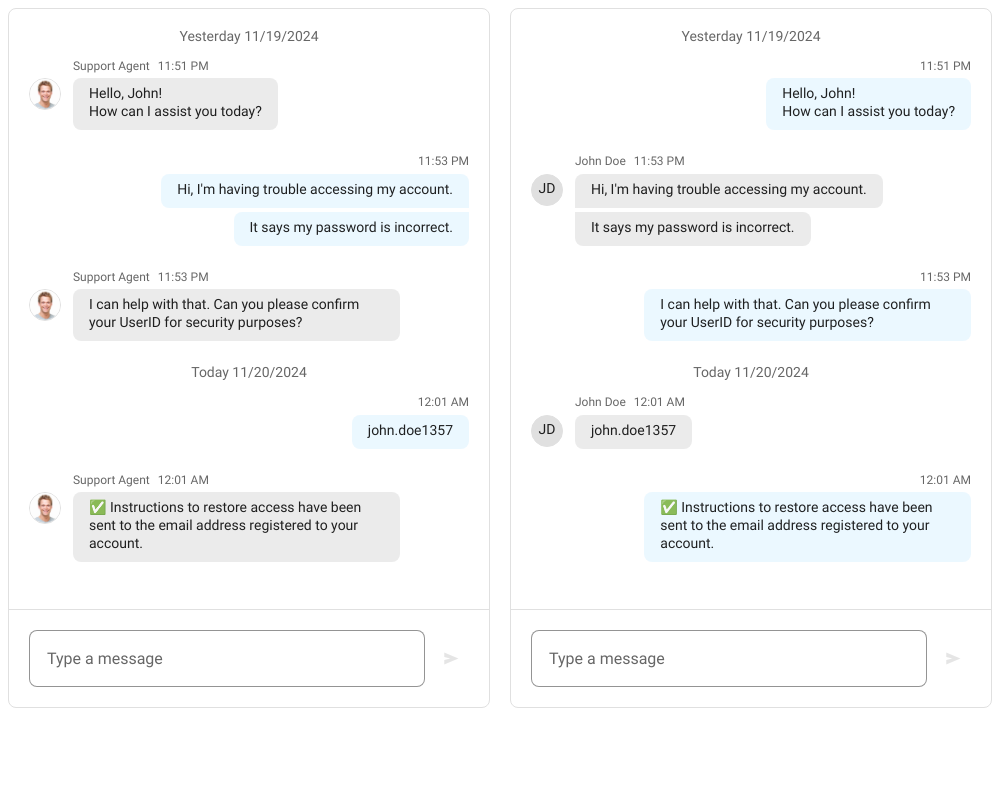
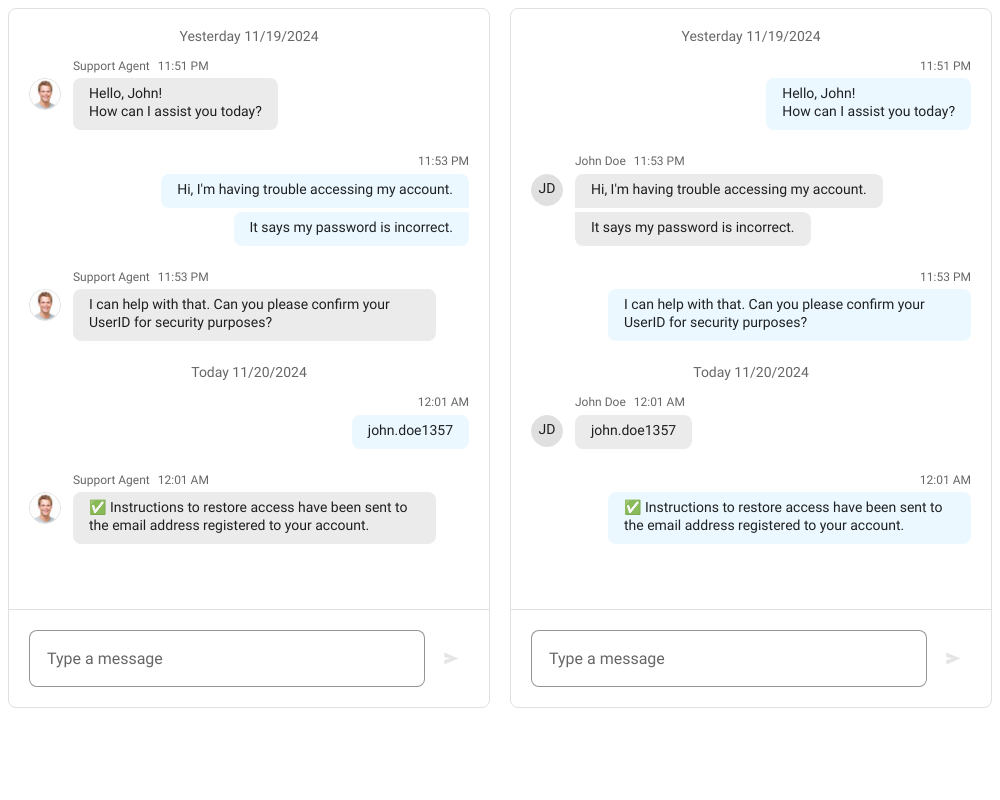
Chat: update bubble max-width (#28428)

diff --git a/packages/devextreme-scss/scss/widgets/fluent/chat/_sizes.scss b/packages/devextreme-scss/scss/widgets/fluent/chat/_sizes.scss
@@ -18,7 +18,7 @@ $chat-messagegroup-gap: 4px !default;
 $chat-messagegroup-padding: null !default;
 $chat-information-gap: 8px !default;
 $chat-avatar-size: 32px !default;
-$chat-messagegroup-alignment-start-template: auto 1fr !default;
+$chat-messagegroup-alignment-start-template: auto 82.5% 1fr !default;
 $chat-messagegroup-alignment-start-gap: 12px !default;
 $chat-header-padding: 20px !default;
 $chat-information-font-size: 12px !default;

diff --git a/packages/devextreme-scss/scss/widgets/generic/chat/_sizes.scss b/packages/devextreme-scss/scss/widgets/generic/chat/_sizes.scss
@@ -19,7 +19,7 @@ $chat-messagegroup-gap: 4px !default;
 $chat-messagegroup-padding: null !default;
 $chat-information-gap: 8px !default;
 $chat-avatar-size: 32px !default;
-$chat-messagegroup-alignment-start-template: auto 1fr !default;
+$chat-messagegroup-alignment-start-template: auto 82.5% 1fr !default;
 $chat-messagegroup-alignment-start-gap: 12px !default;
 $chat-header-padding: 20px !default;
 $chat-information-font-size: 12px !default;

diff --git a/packages/devextreme-scss/scss/widgets/material/chat/_sizes.scss b/packages/devextreme-scss/scss/widgets/material/chat/_sizes.scss
@@ -17,7 +17,7 @@ $chat-messagegroup-gap: 4px !default;
 $chat-messagegroup-padding: null !default;
 $chat-information-gap: 8px !default;
 $chat-avatar-size: 32px !default;
-$chat-messagegroup-alignment-start-template: auto 1fr !default;
+$chat-messagegroup-alignment-start-template: auto 82.5% 1fr !default;
 $chat-messagegroup-alignment-start-gap: 12px !default;
 $chat-header-padding: 20px !default;
 $chat-information-font-size: 12px !default;

diff --git a/apps/demos/Demos/Chat/Overview/Vue/App.vue b/apps/demos/Demos/Chat/Overview/Vue/App.vue
@@ -30,14 +30,6 @@
     .dx-avatar {
         border: 1px solid var(--dx-color-border);
     }
-
-    .dx-chat-messagegroup.dx-chat-messagegroup-alignment-end {
-        padding-left: 44px;
-    }
-
-    .dx-chat-messagegroup .dx-chat-messagegroup-content {
-        max-width: 82.5%;
-    }
 </style>
 
 <script setup lang="ts">

diff --git a/packages/devextreme-scss/scss/widgets/base/chat/layout/chat-messagebubble/_index.scss b/packages/devextreme-scss/scss/widgets/base/chat/layout/chat-messagebubble/_index.scss
@@ -1,7 +1,6 @@
 .dx-chat-messagegroup-content {
   display: flex;
   flex-direction: column;
-  max-width: 70%;
 }
 
 .dx-chat-messagebubble {
@@ -25,6 +24,7 @@
 .dx-chat-messagegroup-alignment-end {
   .dx-chat-messagegroup-content {
     align-items: flex-end;
+    max-width: 82.5%;
   }
 
   .dx-chat-messagebubble {

diff --git a/apps/demos/Demos/Chat/Overview/Angular/app/app.component.css b/apps/demos/Demos/Chat/Overview/Angular/app/app.component.css
@@ -10,11 +10,3 @@
 ::ng-deep .dx-avatar {
   border: 1px solid var(--dx-color-border);
 }
-
-::ng-deep .dx-chat-messagegroup.dx-chat-messagegroup-alignment-end {
-  padding-left: 44px;
-}
-
-::ng-deep .dx-chat-messagegroup .dx-chat-messagegroup-content {
-  max-width: 82.5%;
-}

diff --git a/apps/demos/Demos/Chat/Overview/React/styles.css b/apps/demos/Demos/Chat/Overview/React/styles.css
@@ -10,11 +10,3 @@
 .dx-avatar {
   border: 1px solid var(--dx-color-border);
 }
-
-.dx-chat-messagegroup.dx-chat-messagegroup-alignment-end {
-  padding-left: 44px;
-}
-
-.dx-chat-messagegroup .dx-chat-messagegroup-content {
-  max-width: 82.5%;
-}

diff --git a/apps/demos/Demos/Chat/Overview/ReactJs/styles.css b/apps/demos/Demos/Chat/Overview/ReactJs/styles.css
@@ -10,11 +10,3 @@
 .dx-avatar {
   border: 1px solid var(--dx-color-border);
 }
-
-.dx-chat-messagegroup.dx-chat-messagegroup-alignment-end {
-  padding-left: 44px;
-}
-
-.dx-chat-messagegroup .dx-chat-messagegroup-content {
-  max-width: 82.5%;
-}

diff --git a/apps/demos/Demos/Chat/Overview/jQuery/styles.css b/apps/demos/Demos/Chat/Overview/jQuery/styles.css
@@ -10,11 +10,3 @@
 .dx-avatar {
   border: 1px solid var(--dx-color-border);
 }
-
-.dx-chat-messagegroup.dx-chat-messagegroup-alignment-end {
-  padding-left: 44px;
-}
-
-.dx-chat-messagegroup .dx-chat-messagegroup-content {
-  max-width: 82.5%;
-}

diff --git a/packages/devextreme-scss/scss/widgets/base/chat/layout/chat-messagebubble/_mixins.scss b/packages/devextreme-scss/scss/widgets/base/chat/layout/chat-messagebubble/_mixins.scss
@@ -5,7 +5,7 @@
   $background-color-secondary,
   $color-primary,
   $background-color-primary,
-  $bubble-container-gap
+  $bubble-container-gap,
 ) {
   .dx-chat-messagegroup-content {
     row-gap: $bubble-container-gap;

diff --git a/packages/devextreme-scss/scss/widgets/base/chat/layout/chat-messagegroup/_index.scss b/packages/devextreme-scss/scss/widgets/base/chat/layout/chat-messagegroup/_index.scss
@@ -24,7 +24,7 @@
   justify-items: start;
 
   .dx-chat-messagegroup-information {
-    grid-column: 2;
+    grid-column: 2 / span 2;
   }
 }
 

diff --git a/packages/devextreme-scss/scss/widgets/base/chat/layout/chat-avatar/_index.scss b/packages/devextreme-scss/scss/widgets/base/chat/layout/chat-avatar/_index.scss
@@ -1,5 +1,6 @@
 .dx-avatar {
   grid-row: 2 / auto;
+  grid-column: 1;
   display: flex;
   align-items: center;
   justify-content: center;
